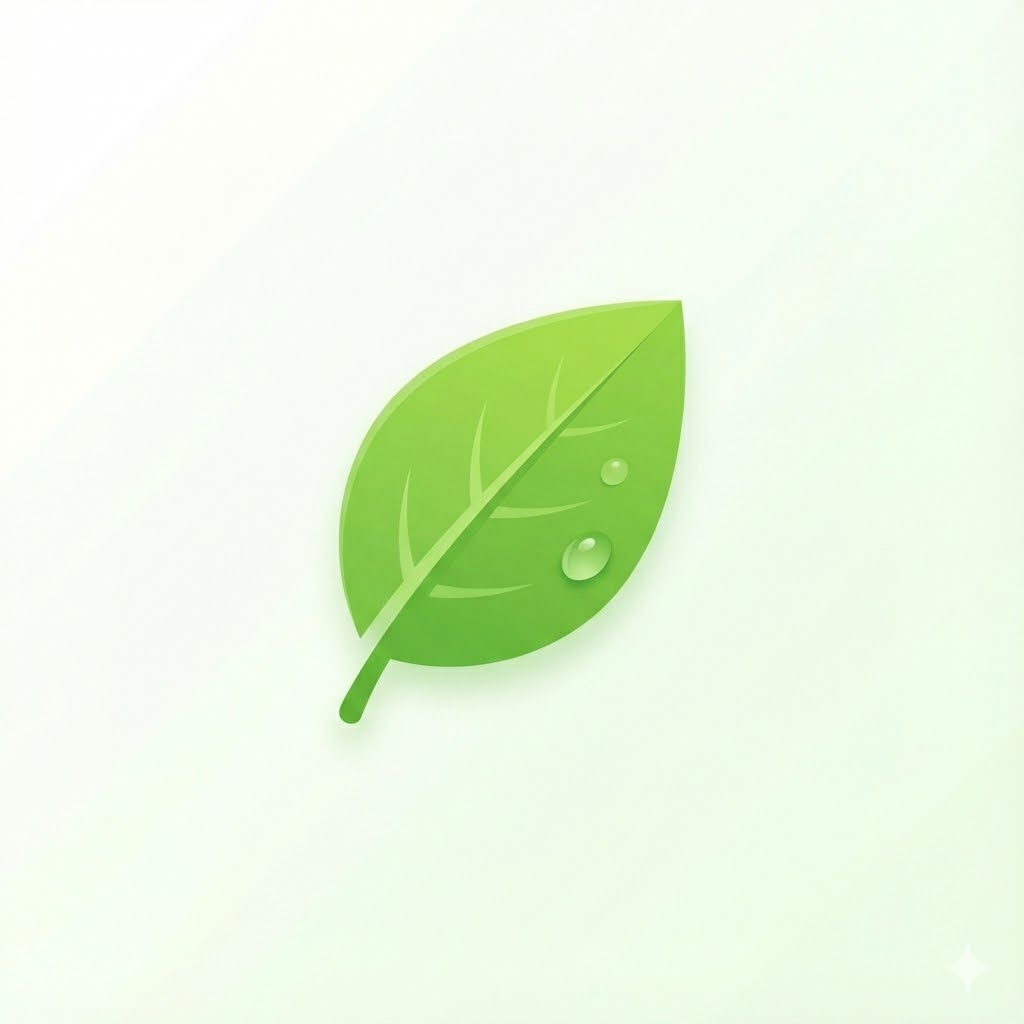
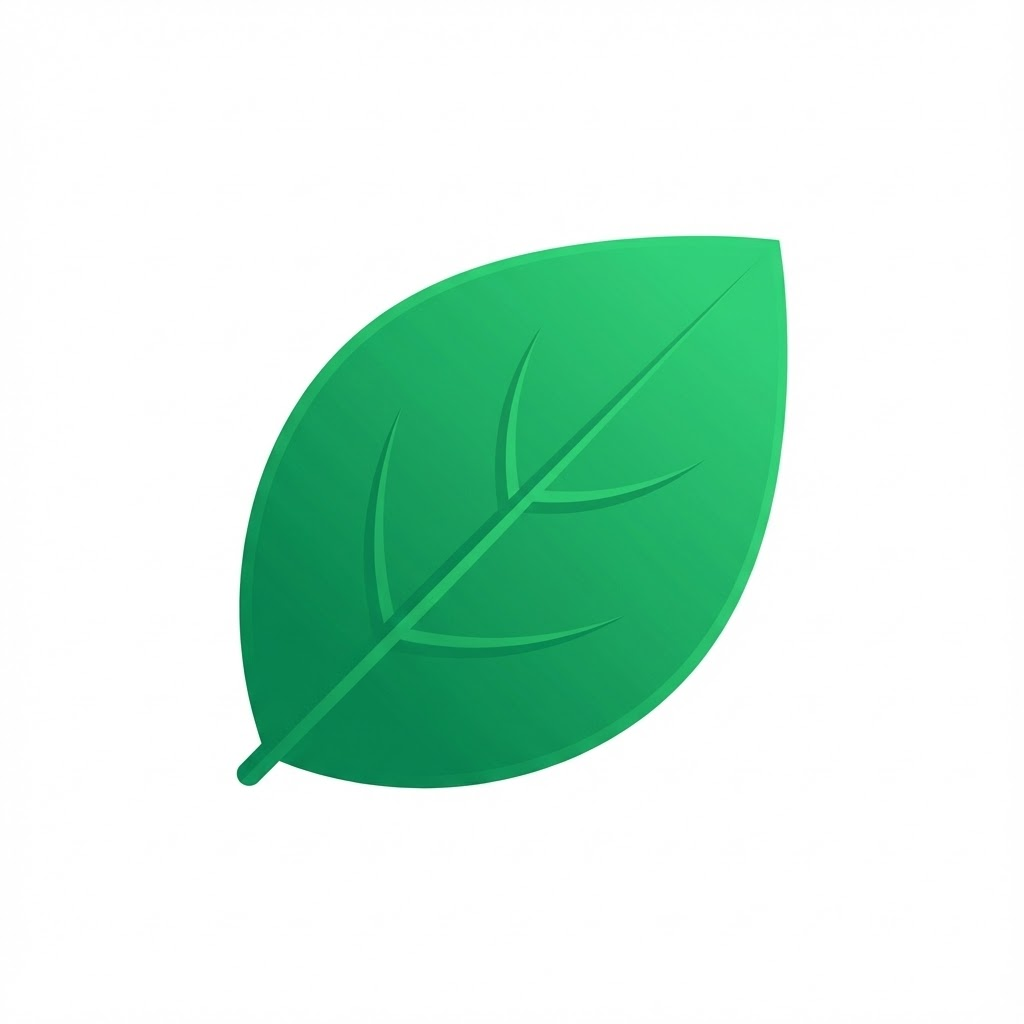
Add files via upload

diff --git a/app.py b/app.py
@@ -24,7 +24,7 @@ logger = logging.getLogger(__name__)
 
 st.set_page_config(
     page_title="智影 | AI 影像顾问", 
-    page_icon="icon.png", # 👈 全局使用新的石头图标
+    page_icon="icon.png",  # 浏览器标签依然用那个炫酷的石头图标
     layout="wide",
     initial_sidebar_state="expanded"
 )
@@ -141,18 +141,19 @@ def img_to_base64(image):
         return base64.b64encode(buffered.getvalue()).decode()
     except: return ""
 
-# 通用显示图标函数
-def show_icon(icon_name, width=None):
-    if os.path.exists(icon_name):
-        st.image(icon_name, width=width)
+# 统一显示Logo函数：强制读取 leaf.png
+def show_leaf_logo(width=None):
+    if os.path.exists("leaf.png"):
+        st.image("leaf.png", width=width)
+    else:
+        # 如果还没上传，显示文字占位
+        st.write("🌿")
 
-# ================= 4. 登录页 (定制化) =================
+# ================= 4. 登录页 =================
 def show_login_page():
     col_poster, col_login = st.columns([1.2, 1])
     
     with col_poster:
-        # ★★★ 左侧：换成高大上的相机专业图 ★★★
-        # 这是一张黑色背景、充满质感的相机和镜头图
         st.image("https://images.unsplash.com/photo-1516035069371-29a1b244cc32?q=80&w=1000&auto=format&fit=crop", 
                  use_container_width=True)
 
@@ -161,8 +162,8 @@ def show_login_page():
         
         c_logo, c_title = st.columns([0.2, 0.8])
         with c_logo:
-            # ★★★ 右侧小图标：专门显示叶子 (leaf.png) ★★★
-            show_icon("leaf.png", width=70) 
+            # ★★★ 登录页：显示新叶子 ★★★
+            show_leaf_logo(width=70) 
         with c_title:
             st.title("智影")
             
@@ -220,9 +221,9 @@ def show_main_app():
         </style>""", unsafe_allow_html=True)
 
     with st.sidebar:
-        # ★★★ 侧边栏：显示新的石头图标 (icon.png) ★★★
+        # ★★★ 侧边栏：显示新叶子 ★★★
         c_side_logo, c_side_title = st.columns([0.3, 0.7])
-        with c_side_logo: show_icon("icon.png", width=50)
+        with c_side_logo: show_leaf_logo(width=50)
         with c_side_title: st.markdown("### 智影用户")
         
         st.info(f"👤 {st.session_state.user_phone}")
@@ -272,7 +273,7 @@ def show_main_app():
             st.rerun()
             
         st.markdown("---")
-        st.caption("Ver: V25.0 Final")
+        st.caption("Ver: V26.0 Final")
 
     st.markdown(f"<style>.stMarkdown p, .stMarkdown li {{font-size: {font_size}px !important; line-height: 1.6;}}</style>", unsafe_allow_html=True)
 
@@ -321,9 +322,9 @@ def show_main_app():
         banner_text = "专业创作 | 适用：单反微单、商业修图、作品集"
         banner_bg = "#e3f2fd" if not st.session_state.dark_mode else "#0d47a1"
 
-    # ★★★ 主界面 Logo：显示新的石头图标 (icon.png) ★★★
+    # ★★★ 主界面 Logo：显示新叶子 ★★★
     col_h1, col_h2 = st.columns([0.15, 2])
-    with col_h1: show_icon("icon.png", width=60)
+    with col_h1: show_leaf_logo(width=60)
     with col_h2: st.title("智影 | 影像私教")
     
     st.markdown(f"""
